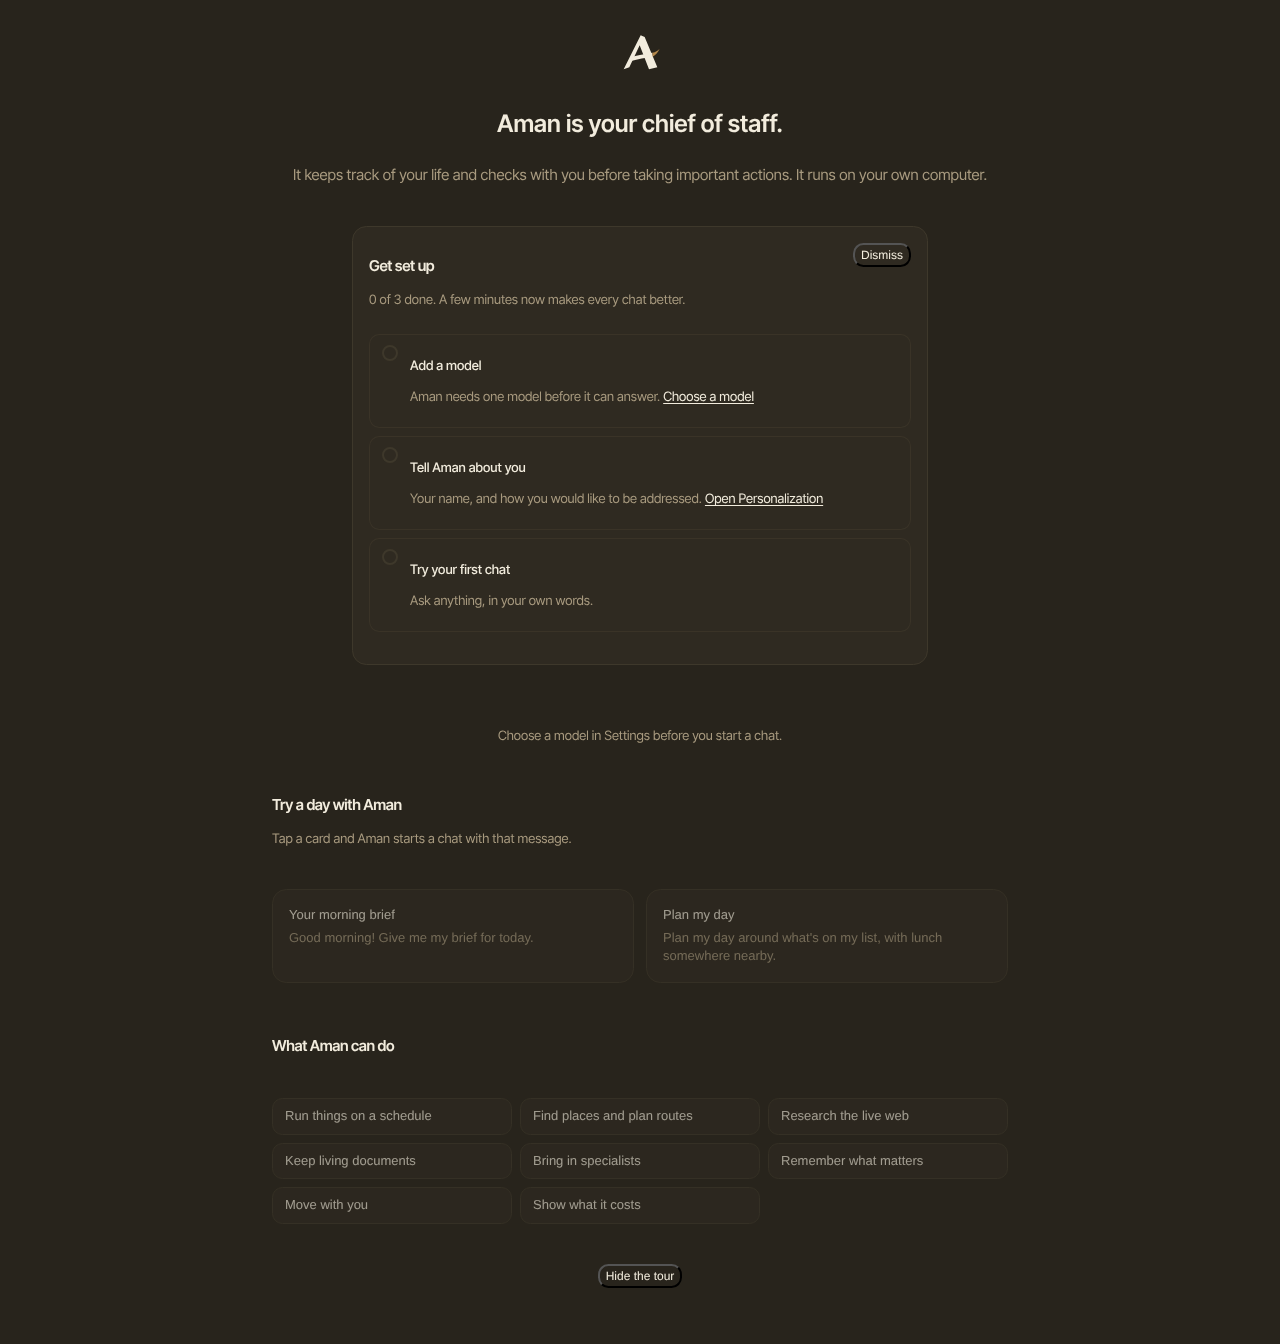
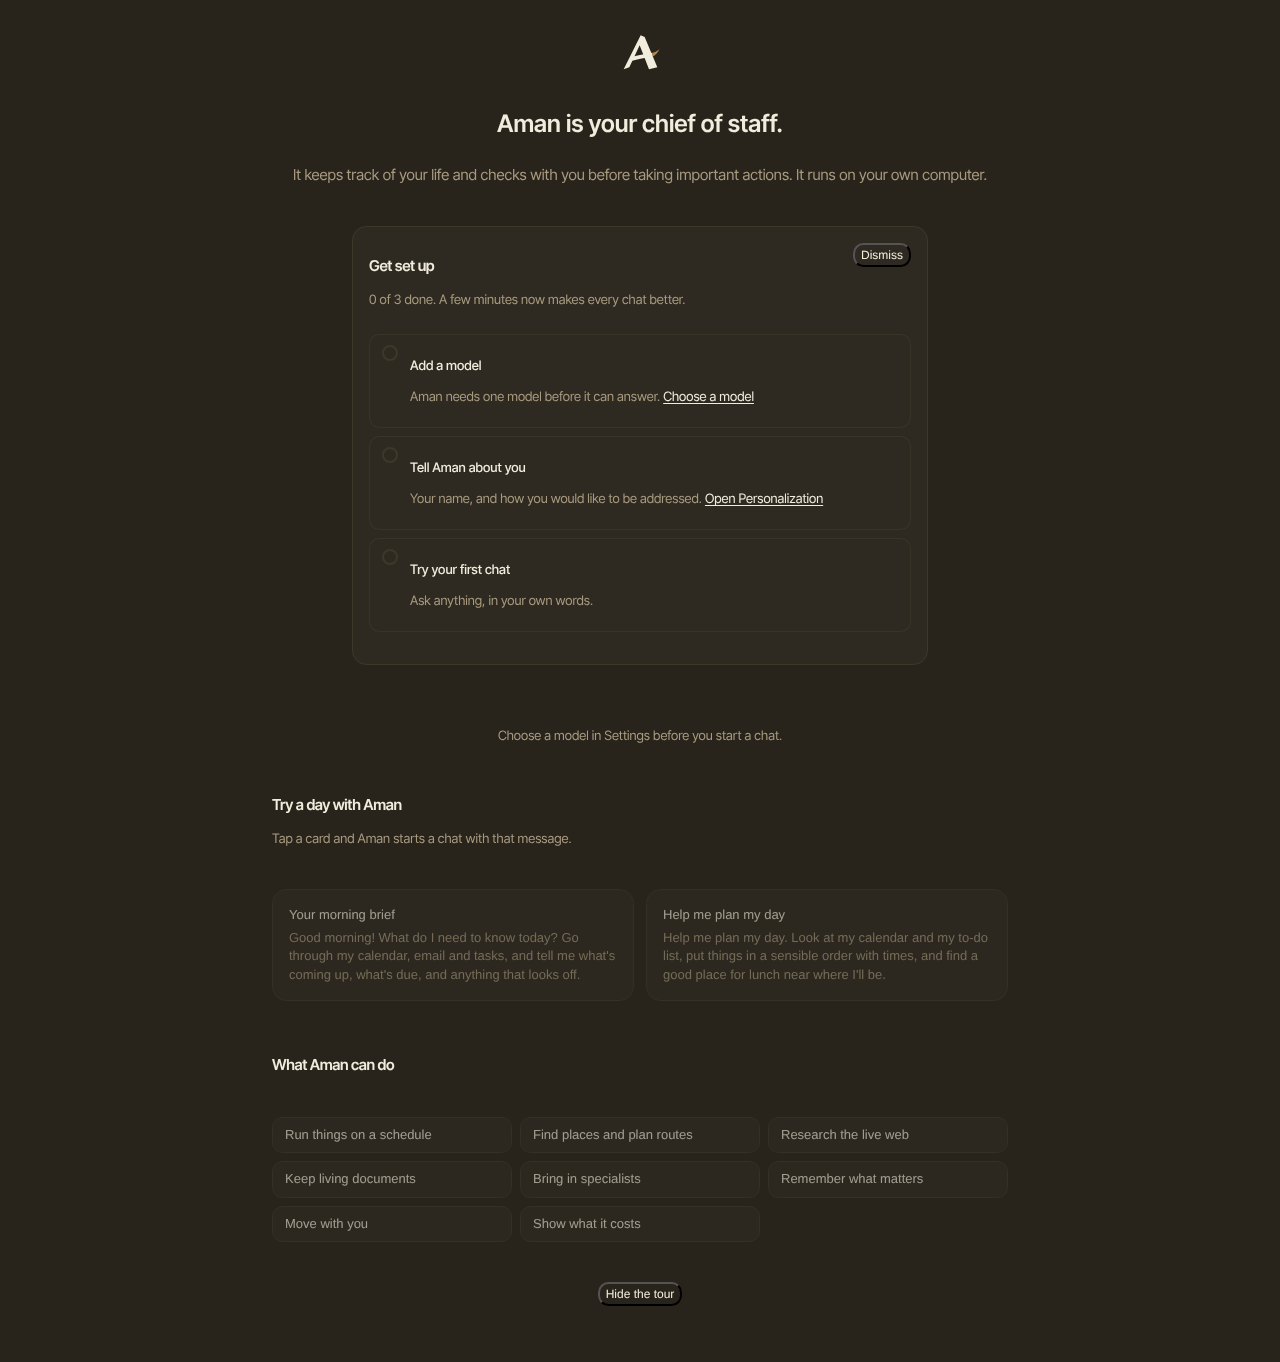
Update the first-screen tour prompts
Reword the tour's day cards and capability chips to the owner's new copy.
The scam check becomes a forgotten-subscriptions prompt, keeping its email
requirement. Keys and capability requirements are unchanged, and the
after-screenshots are regenerated.

diff --git a/packages/trueforge-ui/src/components/AmanTour.tsx b/packages/trueforge-ui/src/components/AmanTour.tsx
@@ -28,11 +28,17 @@ export type TourPrompt = {
 };
 
 export const TRY_A_DAY_PROMPTS: readonly TourPrompt[] = [
-  { key: 'brief', label: 'Your morning brief', prompt: 'Good morning! Give me my brief for today.' },
   {
-    key: 'scam-check',
-    label: 'Check for scams',
-    prompt: 'Is anything in my inbox a scam?',
+    key: 'brief',
+    label: 'Your morning brief',
+    prompt:
+      "Good morning! What do I need to know today? Go through my calendar, email and tasks, and tell me what's coming up, what's due, and anything that looks off.",
+  },
+  {
+    key: 'subscriptions',
+    label: 'Find forgotten subscriptions',
+    prompt:
+      "Look through my email for subscriptions and renewals. List what I'm paying for, how much and how often, and flag anything I may have forgotten about.",
     needs: 'email',
   },
   {
@@ -43,13 +49,14 @@ export const TRY_A_DAY_PROMPTS: readonly TourPrompt[] = [
   },
   {
     key: 'plan-day',
-    label: 'Plan my day',
-    prompt: "Plan my day around what's on my list, with lunch somewhere nearby.",
+    label: 'Help me plan my day',
+    prompt:
+      "Help me plan my day. Look at my calendar and my to-do list, put things in a sensible order with times, and find a good place for lunch near where I'll be.",
   },
   {
     key: 'appointment',
     label: 'Get ready for an appointment',
-    prompt: 'Help me get ready for my next appointment.',
+    prompt: "What's my next appointment, and what should I bring or do before it?",
     needs: 'calendar',
   },
 ];
@@ -61,7 +68,7 @@ export const CAPABILITY_PROMPTS: readonly TourPrompt[] = [
     prompt: 'Go through my unread email and tell me what needs a reply first.',
     needs: 'email',
   },
-  { key: 'schedule', label: 'Run things on a schedule', prompt: 'Set up a routine that checks my bills every Friday.' },
+  { key: 'schedule', label: 'Run things on a schedule', prompt: 'Every weekday at 7:30, send me my morning brief.' },
   {
     key: 'calendar',
     label: 'Keep your calendar',
@@ -76,35 +83,35 @@ export const CAPABILITY_PROMPTS: readonly TourPrompt[] = [
   {
     key: 'web',
     label: 'Research the live web',
-    prompt: 'Look up the latest news on a topic I care about and sum it up for me.',
+    prompt: "What's in the news today? Give me the five stories that matter, two lines each.",
   },
   {
     key: 'documents',
     label: 'Keep living documents',
-    prompt: 'Start a living document for my packing list that I can update later.',
+    prompt: 'Start a packing list for a weekend trip that we can keep updating.',
   },
   {
     key: 'specialists',
     label: 'Bring in specialists',
-    prompt: 'Bring in a specialist to help me plan my next trip.',
+    prompt: "Get a travel specialist to plan a long weekend somewhere I've never been.",
   },
   {
     key: 'code',
     label: 'Read files and run code',
-    prompt: 'Add up these expenses and show me the total: 12.50, 8, 31.20.',
+    prompt: 'Add up my expenses by category and make a chart: rent 900, groceries 210, transport 45, eating out 80.',
     needs: 'sandbox',
   },
   { key: 'memory', label: 'Remember what matters', prompt: 'What do you remember about me so far?' },
   {
     key: 'skills',
     label: 'Learn new skills',
-    prompt: 'Learn a new skill that turns my receipts into a monthly expense list.',
+    prompt: 'Learn how to turn a photo of a receipt into a line in my expense list.',
     needs: 'sandbox',
   },
   {
     key: 'move',
     label: 'Move with you',
-    prompt: 'What can you do for me when I am away from my desk?',
+    prompt: 'How do I use you from my phone?',
   },
   { key: 'cost', label: 'Show what it costs', prompt: 'Show me what my chats have cost so far this month.' },
 ];

diff --git a/packages/trueforge-ui/test/components/AmanWelcome.test.tsx b/packages/trueforge-ui/test/components/AmanWelcome.test.tsx
@@ -105,7 +105,9 @@ describe('AmanWelcome on an ordinary new chat', () => {
 
     fireEvent.click(await screen.findByRole('button', { name: /Your morning brief/ }));
 
-    expect(composer.setText).toHaveBeenCalledWith('Good morning! Give me my brief for today.');
+    expect(composer.setText).toHaveBeenCalledWith(
+      "Good morning! What do I need to know today? Go through my calendar, email and tasks, and tell me what's coming up, what's due, and anything that looks off.",
+    );
     expect(composer.send).toHaveBeenCalledTimes(1);
     expect(composer.setText.mock.invocationCallOrder[0]).toBeLessThan(composer.send.mock.invocationCallOrder[0] ?? 0);
   });
@@ -115,7 +117,7 @@ describe('AmanWelcome on an ordinary new chat', () => {
 
     fireEvent.click(await screen.findByRole('button', { name: 'Run things on a schedule' }));
 
-    expect(composer.setText).toHaveBeenCalledWith('Set up a routine that checks my bills every Friday.');
+    expect(composer.setText).toHaveBeenCalledWith('Every weekday at 7:30, send me my morning brief.');
     expect(composer.send).toHaveBeenCalledTimes(1);
   });
 
@@ -123,7 +125,7 @@ describe('AmanWelcome on an ordinary new chat', () => {
     renderWelcome({ setup: { modelName: 'local/llama', hasChatted: false, firstRunGuide: notDismissed } });
     await screen.findByRole('heading', { name: TOUR_HEADING });
 
-    expect(screen.queryByRole('button', { name: /Check for scams/ })).not.toBeInTheDocument();
+    expect(screen.queryByRole('button', { name: /Find forgotten subscriptions/ })).not.toBeInTheDocument();
     expect(screen.queryByRole('button', { name: 'Keep your calendar' })).not.toBeInTheDocument();
     expect(screen.queryByRole('button', { name: 'Read files and run code' })).not.toBeInTheDocument();
   });
@@ -133,7 +135,7 @@ describe('AmanWelcome on an ordinary new chat', () => {
     server.sandboxEnabled = true;
     renderWelcome({ setup: { modelName: 'local/llama', hasChatted: false, firstRunGuide: notDismissed } });
 
-    expect(await screen.findByRole('button', { name: /Check for scams/ })).toBeInTheDocument();
+    expect(await screen.findByRole('button', { name: /Find forgotten subscriptions/ })).toBeInTheDocument();
     expect(screen.getByRole('button', { name: /Get ready for an appointment/ })).toBeInTheDocument();
     expect(screen.getByRole('button', { name: 'Keep your calendar' })).toBeInTheDocument();
     expect(screen.getByRole('button', { name: 'Read files and run code' })).toBeInTheDocument();

diff --git a/packages/trueforge-ui/test/components/AmanTour.test.tsx b/packages/trueforge-ui/test/components/AmanTour.test.tsx
@@ -84,7 +84,7 @@ describe('AmanTour', () => {
     renderTour({ capabilities: NONE });
     const days = within(screen.getByRole('region', { name: 'Try a day with Aman' }));
 
-    expect(days.queryByRole('button', { name: /Check for scams/ })).not.toBeInTheDocument();
+    expect(days.queryByRole('button', { name: /Find forgotten subscriptions/ })).not.toBeInTheDocument();
     expect(days.queryByRole('button', { name: /Reply to an email/ })).not.toBeInTheDocument();
     expect(days.queryByRole('button', { name: /Get ready for an appointment/ })).not.toBeInTheDocument();
     expect(screen.getByRole('button', { name: /Your morning brief/ })).toBeInTheDocument();
@@ -99,7 +99,7 @@ describe('AmanTour', () => {
     renderTour({ capabilities: { ...NONE, email: true } });
 
     expect(screen.getByRole('button', { name: 'Handle your email' })).toBeInTheDocument();
-    expect(screen.getByRole('button', { name: /Check for scams/ })).toBeInTheDocument();
+    expect(screen.getByRole('button', { name: /Find forgotten subscriptions/ })).toBeInTheDocument();
     expect(screen.queryByRole('button', { name: 'Keep your calendar' })).not.toBeInTheDocument();
     expect(screen.queryByRole('button', { name: /Get ready for an appointment/ })).not.toBeInTheDocument();
   });

diff --git a/packages/frontend/tests/firstRunGuide.browser.test.ts b/packages/frontend/tests/firstRunGuide.browser.test.ts
@@ -121,7 +121,9 @@ test('first-run screens render in light and dark at desktop and phone width', { 
 
         // Every capability granted: the full prompt set is on screen.
         await open('connected');
-        await page.getByRole('button', { name: /Check for scams/ }).waitFor({ timeout: RENDER_TIMEOUT_MS });
+        await page
+          .getByRole('button', { name: /Find forgotten subscriptions/ })
+          .waitFor({ timeout: RENDER_TIMEOUT_MS });
         assert.ok(await page.getByRole('button', { name: 'Handle your email' }).isVisible());
         assert.ok(await page.getByRole('button', { name: 'Read files and run code' }).isVisible());
         await shoot('connected');
